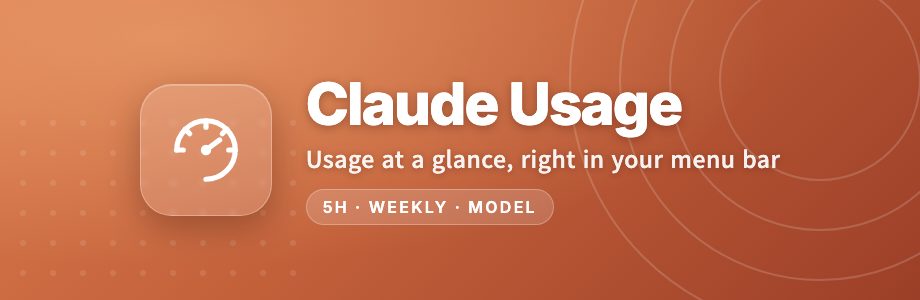
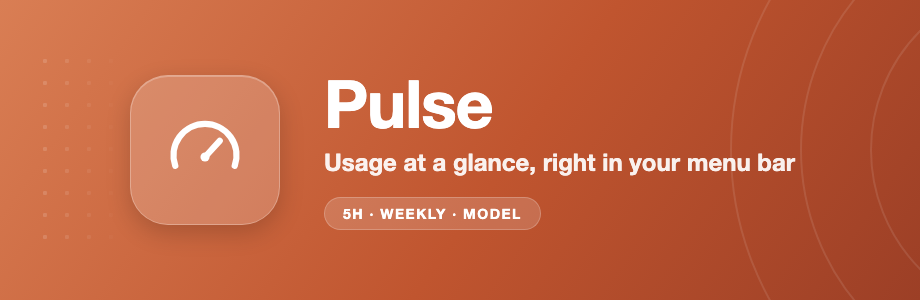
ui(menubar): About 배너 Pulse 통일 + Anthropic 비제휴 고지 + v1.0.0 (#13)

diff --git a/menubar/Sources/Pulse/main.swift b/menubar/Sources/Pulse/main.swift
@@ -126,10 +126,10 @@ final class AppDelegate: NSObject, NSApplicationDelegate {
         }
 
         let version = Bundle.main.object(forInfoDictionaryKey: "CFBundleShortVersionString")
-            as? String ?? "0.1.0"
+            as? String ?? "1.0.0"
 
         let win = NSWindow(
-            contentRect: NSRect(x: 0, y: 0, width: 460, height: 340),
+            contentRect: NSRect(x: 0, y: 0, width: 460, height: 380),
             styleMask: [.titled, .closable],
             backing: .buffered, defer: false)
         win.title = "About Pulse"
@@ -205,11 +205,18 @@ final class AppDelegate: NSObject, NSApplicationDelegate {
 
         let copyright = label("© 2026 AGLE", size: 11, color: .tertiaryLabelColor)
 
-        let stack = NSStackView(views: [versionLabel, desc, meta, github, copyright])
+        // Trademark / non-affiliation notice. Pulse is an independent product; it
+        // reads Claude Code's local data but is not affiliated with Anthropic.
+        let disclaimer = label(
+            "Not affiliated with or endorsed by Anthropic.\nClaude is a trademark of Anthropic, PBC.",
+            size: 10, color: .tertiaryLabelColor)
+
+        let stack = NSStackView(views: [versionLabel, desc, meta, github, copyright, disclaimer])
         stack.orientation = .vertical
         stack.alignment = .centerX
         stack.spacing = 8
         stack.setCustomSpacing(14, after: meta)
+        stack.setCustomSpacing(12, after: copyright)
         stack.translatesAutoresizingMaskIntoConstraints = false
 
         container.addSubview(banner)

diff --git a/menubar/docs/RELEASE.md b/menubar/docs/RELEASE.md
@@ -63,6 +63,11 @@ gaps for *commercial distribution*; all code fixes have been applied.
   is a Claude Code internal/undocumented API. It may change or be blocked without notice,
   and basing a commercial product on it carries Terms-of-Service risk. Before shipping,
   confirm acceptable use and have a fallback/incident plan for when the endpoint changes.
+- **Trademark / affiliation.** Pulse uses the "Claude" name to describe what it reads.
+  A non-affiliation notice ("Not affiliated with or endorsed by Anthropic. Claude is a
+  trademark of Anthropic, PBC.") now ships in the About window and `README.md`. Keep the
+  product's own branding ("Pulse") primary in all store/marketing copy; use "Claude" only
+  nominatively (to describe compatibility), never in a way that implies endorsement.
 
 ## What the app accesses (for privacy disclosures)
 

diff --git a/menubar/README.md b/menubar/README.md
@@ -74,6 +74,8 @@ spctl --assess --type execute Pulse.app
 - **What it stores:** nothing. The token stays in memory and is re-read on every poll.
 - **Heads-up:** the usage endpoint (`/api/oauth/usage`) is an undocumented Claude Code
   internal API and may change or stop working without notice.
+- **Affiliation:** Pulse is an independent product, not affiliated with or endorsed by
+  Anthropic. Claude is a trademark of Anthropic, PBC.
 
 ## Settings / fine-tuning
 
